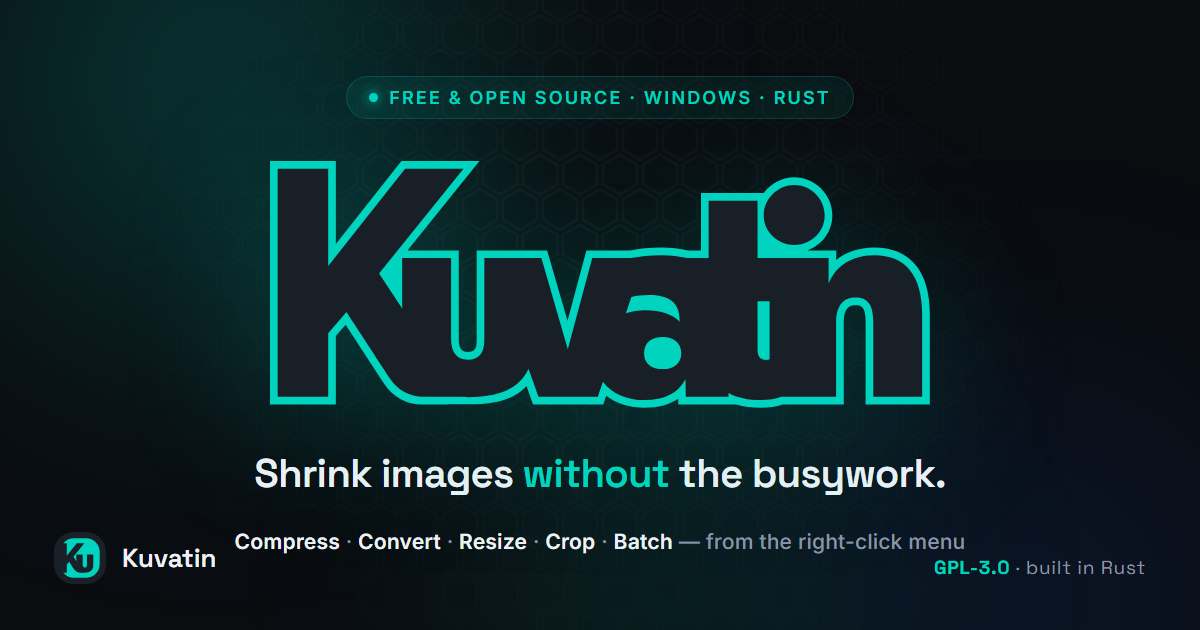
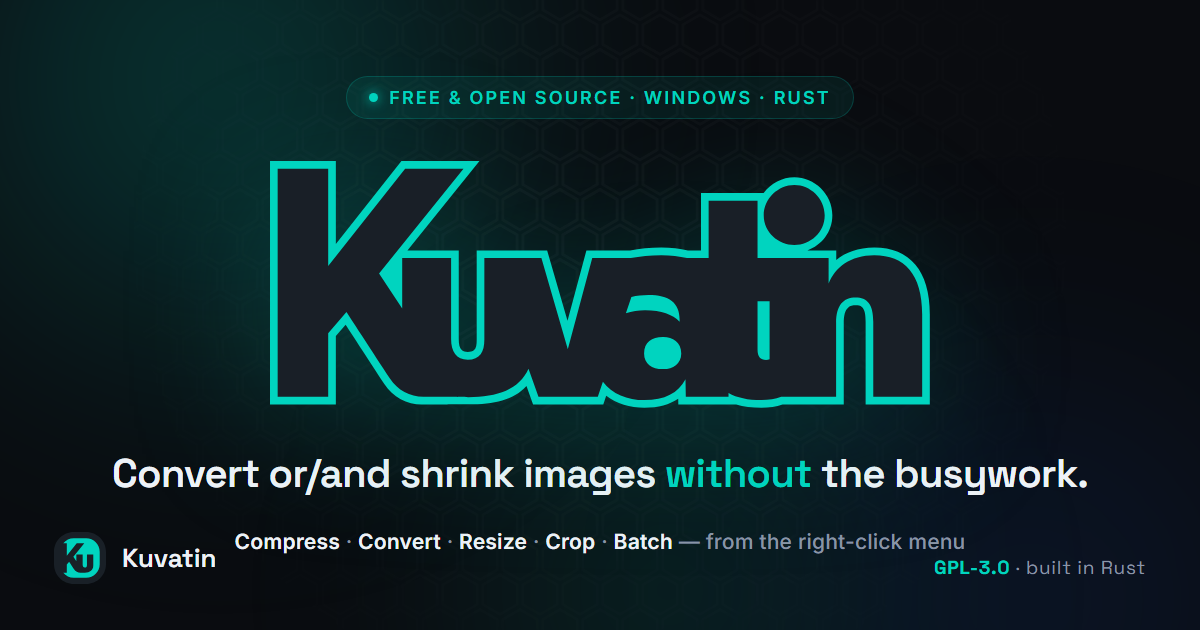
docs: update OG image tagline to match the hero

Changed region(s): [[0.0925, 0.7238, 0.925, 0.7841]]

diff --git a/docs/og.html b/docs/og.html
@@ -44,7 +44,7 @@
   <div class="inner">
     <span class="pill"><span class="dot"></span> Free &amp; open source · Windows · Rust</span>
     <img class="logo" src="assets/kuvatin-logo.svg" alt="Kuvatin" />
-    <div class="tag">Shrink images <span class="accent">without</span> the busywork.</div>
+    <div class="tag">Convert or/and shrink images <span class="accent">without</span> the busywork.</div>
     <div class="feats"><b>Compress</b> · <b>Convert</b> · <b>Resize</b> · <b>Crop</b> · <b>Batch</b> — from the right-click menu</div>
   </div>
   <div class="corner"><img src="assets/kuvatin-icon.svg" alt="" /><span>Kuvatin</span></div>